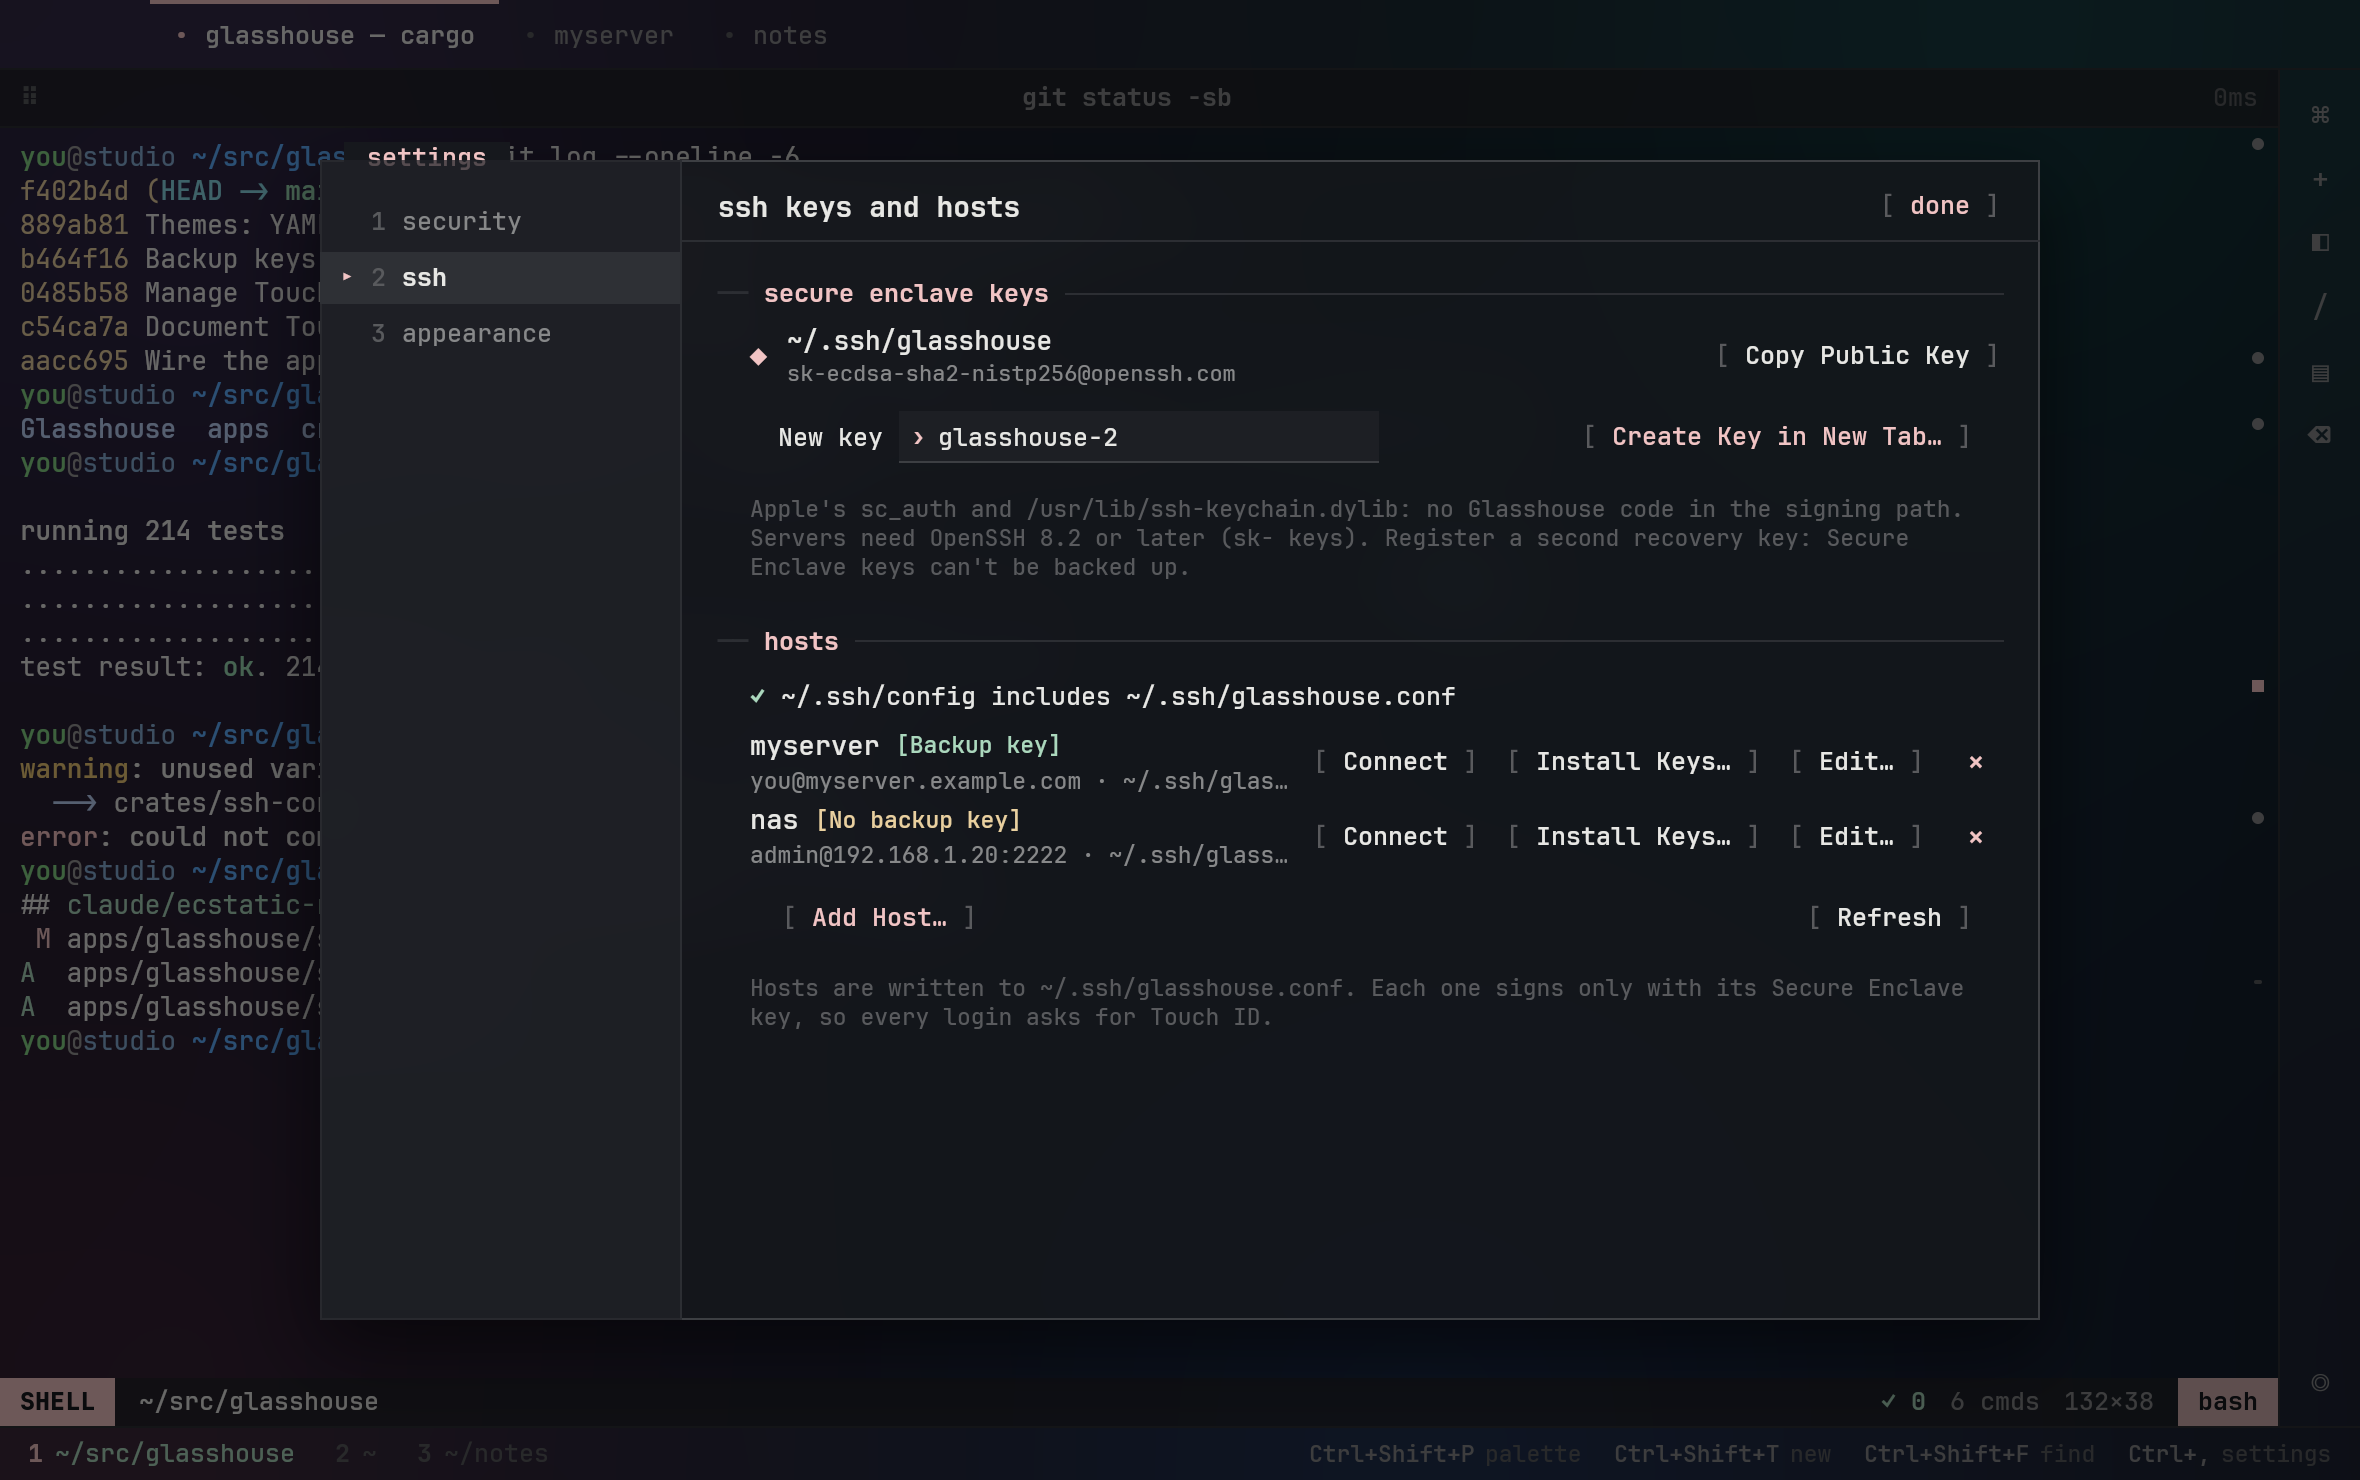
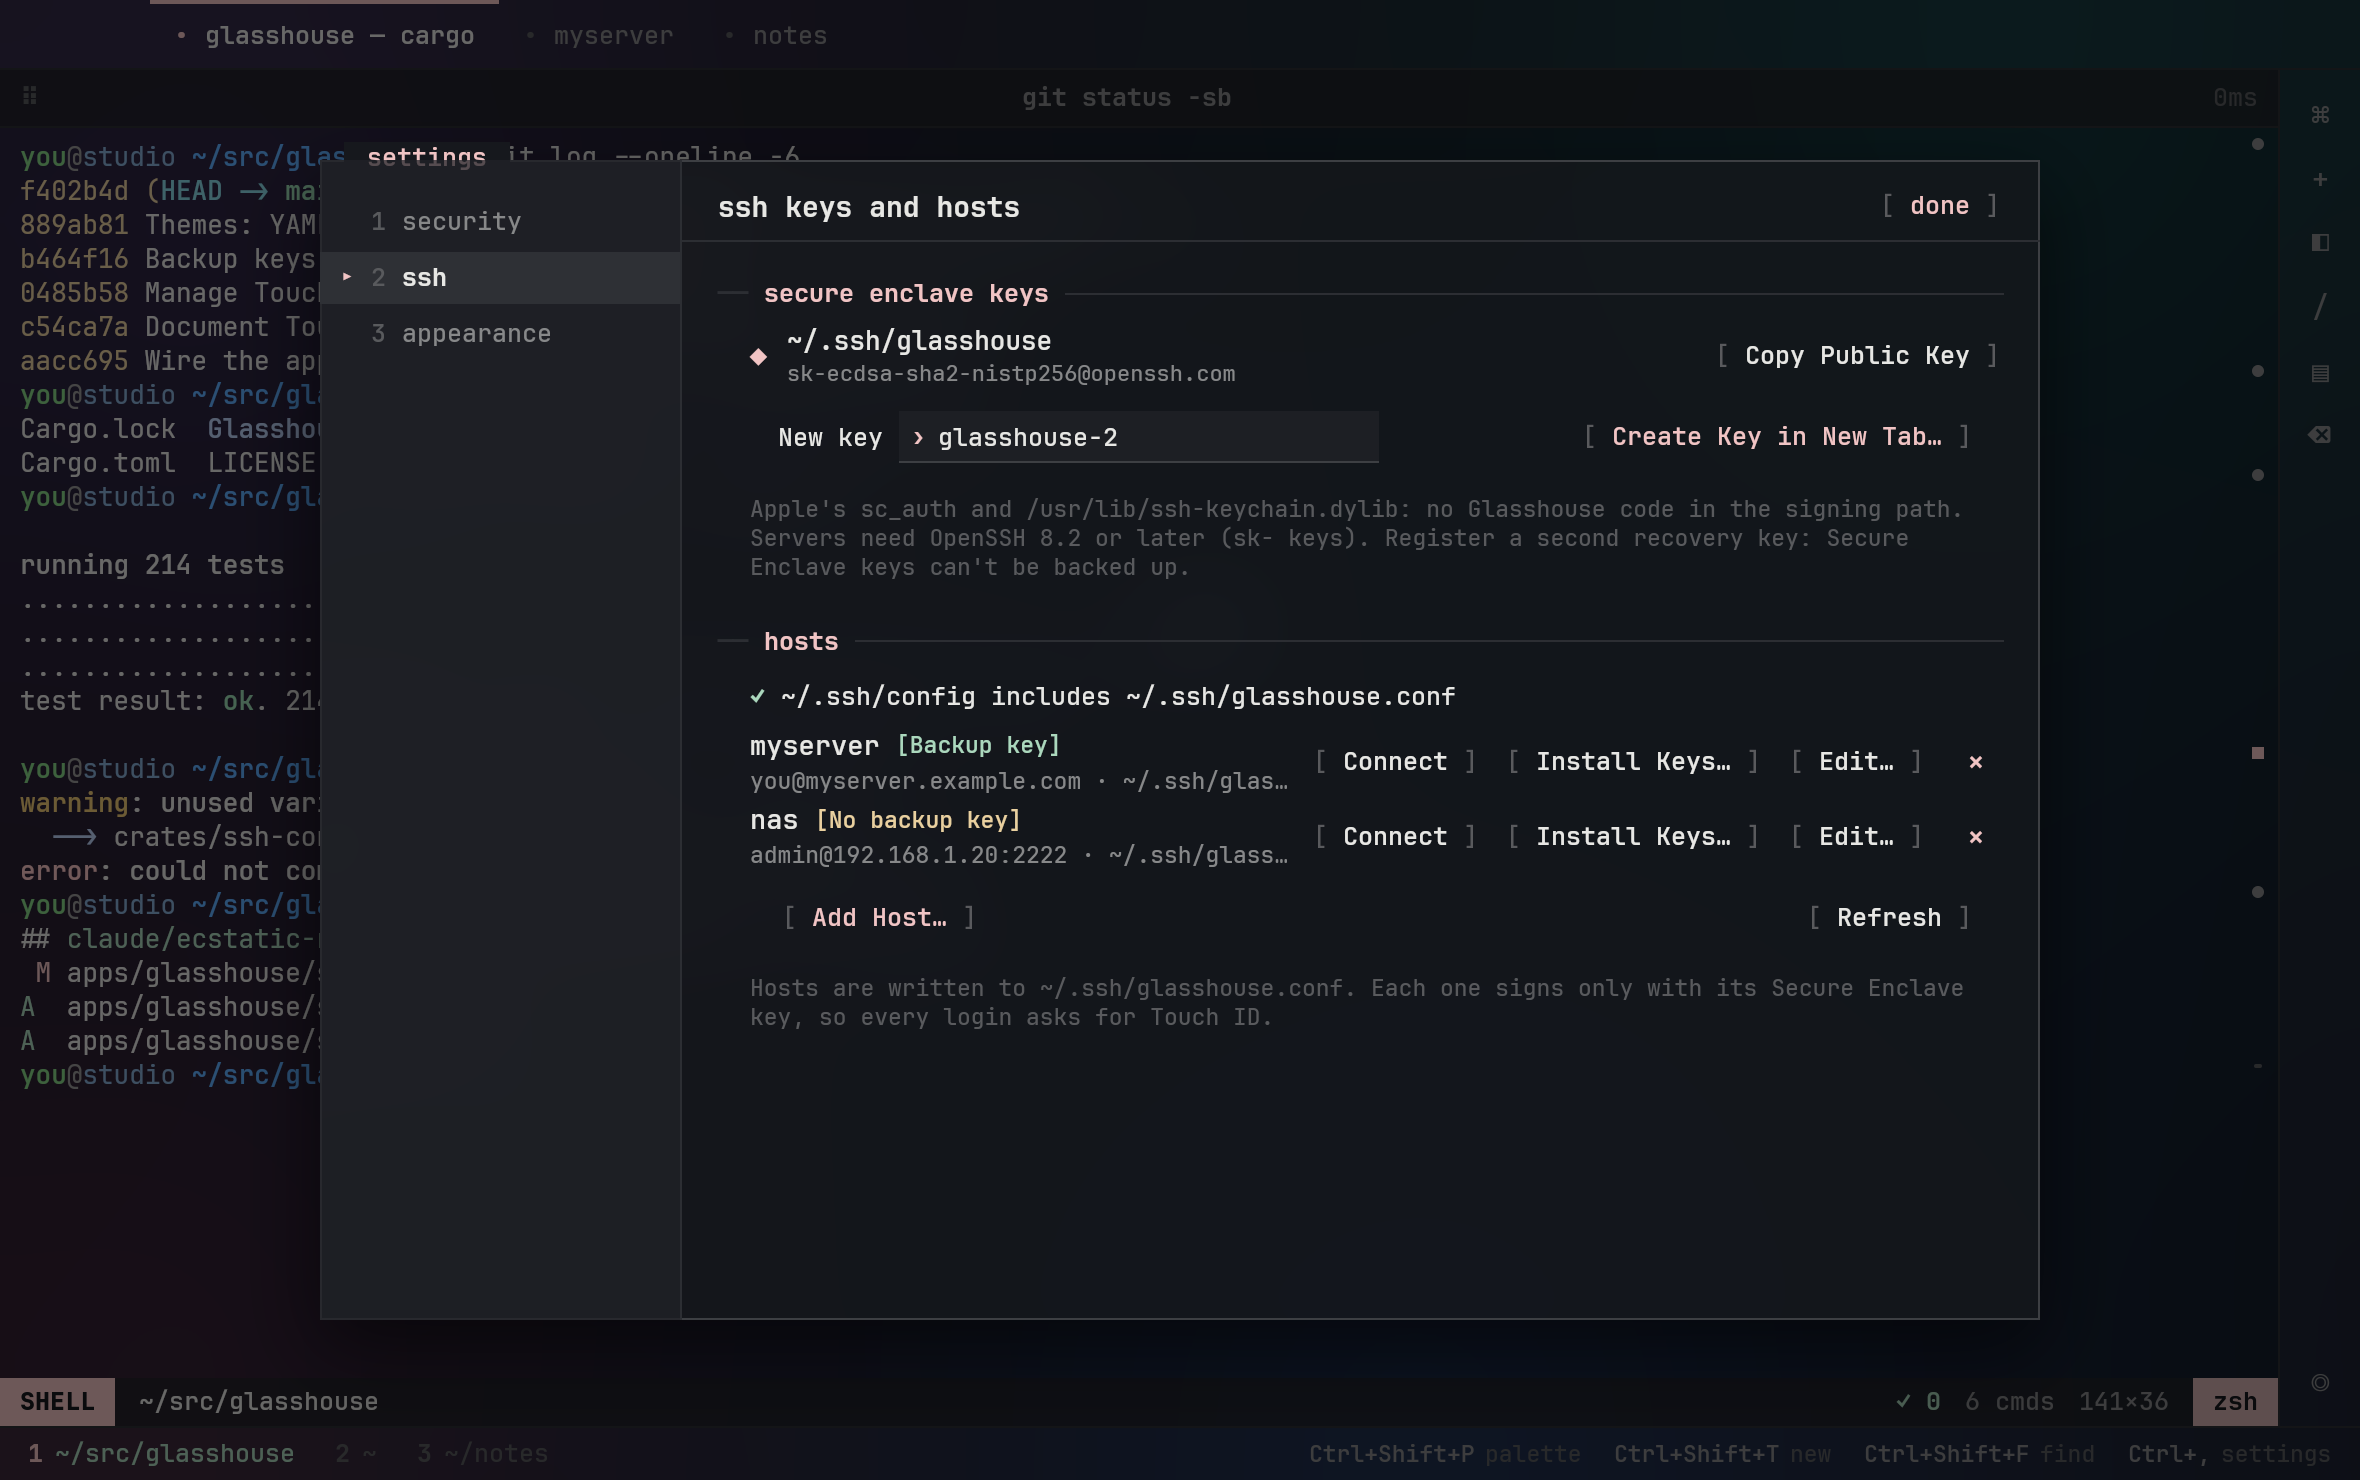
fix(ui): name each tab's own shell; snapshot after the grid resizes
The status line showed this machine's $SHELL, so screenshots rendered on
Linux said bash. Each session now records the program it runs (zsh, bash,
fish, or ssh for host tabs), and demo tabs run zsh, as a Mac does.

Snapshots are taken with --at 0.5, after layout has resized the grid to
the pane, so lines no longer clip and the status line shows the real size.
The demo transcript's long lines are shortened to fit a narrow pane.

Claude-Session: https://claude.ai/code/session_01GfWKTGSY4AFboESB93zKvf

diff --git a/apps/glasshouse/src/session.rs b/apps/glasshouse/src/session.rs
@@ -70,6 +70,8 @@ pub struct Session {
     engine: PtyTerminal,
     events: Receiver<EngineEvent>,
     pub title: String,
+    /// The program the tab runs, as the status line names it: `zsh`, `bash`, `fish` or `ssh`.
+    pub shell: String,
     pub cwd: Option<String>,
     pub exited: bool,
     pub exit_code: Option<i32>,
@@ -149,6 +151,7 @@ impl Session {
             engine,
             events,
             title: title.to_owned(),
+            shell: program_name(&plan.executable),
             cwd: None,
             exited: start_error.is_some(),
             exit_code: None,
@@ -185,6 +188,8 @@ impl Session {
             engine,
             events,
             title: title.to_owned(),
+            // Demo tabs show what a Mac runs by default.
+            shell: "zsh".to_owned(),
             cwd: None,
             exited: false,
             exit_code: None,
@@ -434,6 +439,15 @@ impl Session {
     }
 }
 
+/// `/bin/zsh` → `zsh`, `-zsh` → `zsh`.
+pub fn program_name(executable: &str) -> String {
+    let name = Path::new(executable)
+        .file_name()
+        .and_then(|n| n.to_str())
+        .unwrap_or(executable);
+    name.trim_start_matches('-').to_owned()
+}
+
 /// Program-set titles (OSC 0/2) never reach trusted chrome; strip glyphs that imitate it anyway.
 pub fn sanitize_title(raw: &str) -> String {
     const BANNED: [char; 7] = ['🔒', '🔐', '🔑', '🛡', '✅', '☑', '✔'];
@@ -476,6 +490,13 @@ mod tests {
 
     fn args(list: &[&str]) -> Vec<String> {
         list.iter().map(|s| (*s).to_owned()).collect()
+    }
+
+    #[test]
+    fn program_name_should_be_the_executable_file_name() {
+        assert_eq!(program_name("/bin/zsh"), "zsh");
+        assert_eq!(program_name("/usr/bin/ssh"), "ssh");
+        assert_eq!(program_name("-fish"), "fish");
     }
 
     #[test]

diff --git a/apps/glasshouse/src/demo.rs b/apps/glasshouse/src/demo.rs
@@ -78,16 +78,16 @@ fn main_transcript() -> String {
     t += &command(
         "~/src/glasshouse",
         "ls",
-        "\x1b[1;34mGlasshouse\x1b[0m  \x1b[1;34mapps\x1b[0m  \x1b[1;34mcrates\x1b[0m  \x1b[1;34mdocs\x1b[0m  Cargo.lock  Cargo.toml  LICENSE  README.md  rust-toolchain.toml\n",
+        "Cargo.lock  \x1b[1;34mGlasshouse\x1b[0m  README.md  \x1b[1;34mcrates\x1b[0m  rust-toolchain.toml\nCargo.toml  LICENSE     \x1b[1;34mapps\x1b[0m       \x1b[1;34mdocs\x1b[0m\n",
         0,
     );
     t += &command(
         "~/src/glasshouse",
         "cargo test --workspace -q",
         "\n\x1b[1mrunning 214 tests\x1b[0m\n\
-         ........................................................................................ 88/214\n\
-         ........................................................................................ 176/214\n\
-         ......................................\n\
+         ........................................................................ 72/214\n\
+         ........................................................................ 144/214\n\
+         ...................................................................... 214/214\n\
          test result: \x1b[1;32mok\x1b[0m. 214 passed; 0 failed; 0 ignored; finished in 1.84s\n\n",
         0,
     );

diff --git a/apps/glasshouse/src/ui/grid.rs b/apps/glasshouse/src/ui/grid.rs
@@ -239,13 +239,11 @@ fn status_line(app: &App, session: &Session, ink: &Ink) -> El {
             .color(c)
     });
     let commands = session.timeline.commands().len();
-    let shell = std::path::Path::new(&std::env::var("SHELL").unwrap_or_else(|_| "sh".into()))
-        .file_name()
-        .map_or_else(|| "sh".to_owned(), |n| n.to_string_lossy().into_owned());
+    // The tab's own program, not this machine's $SHELL: a host tab runs ssh.
     let kind = if matches!(session.trust, TrustState::RemoteSession(_)) {
         "ssh".to_owned()
     } else {
-        shell
+        session.shell.clone()
     };
     let fact = |s: String| text(s).font(style(UI, 500.0)).color(ink.secondary);
     let _ = app;

diff --git a/apps/glasshouse/src/main.rs b/apps/glasshouse/src/main.rs
@@ -3,7 +3,7 @@
 //! ```sh
 //! cargo run -p glasshouse                                   # a live shell
 //! cargo run -p glasshouse -- --demo                         # scripted tabs, no shell (screenshots, demos)
-//! cargo run -p glasshouse -- --snap shot.png --scene palette --scale 2
+//! cargo run -p glasshouse -- --snap shot.png --scene palette --scale 2 --at 0.5
 //! ```
 //!
 //! Scenes (`--scene NAME`): `terminal`, `sidebar`, `palette`, `approval`, `find`, `settings`,

diff --git a/apps/glasshouse/README.md b/apps/glasshouse/README.md
@@ -49,9 +49,10 @@ terminal engines fed recorded output, so no shell is spawned. The scenes are `te
 `sidebar`, `palette`, `approval`, `find`, `settings`, `ssh`, `appearance`, `light`, `solid` and `hero` (the window floating on the wallpaper, for this README).
 
 ```sh
-cargo run -p glasshouse -- --snap docs/screenshots/palette.png --scene palette --scale 2 --theme dark
+cargo run -p glasshouse -- --snap docs/screenshots/palette.png --scene palette --scale 2 --theme dark --at 0.5
 ```
 
+`--at 0.5` takes the picture half a second into the scene, after the grid has resized to the pane.
 Without a GPU, install Mesa's software Vulkan (`mesa-vulkan-drivers`).
 
 ## Layout
